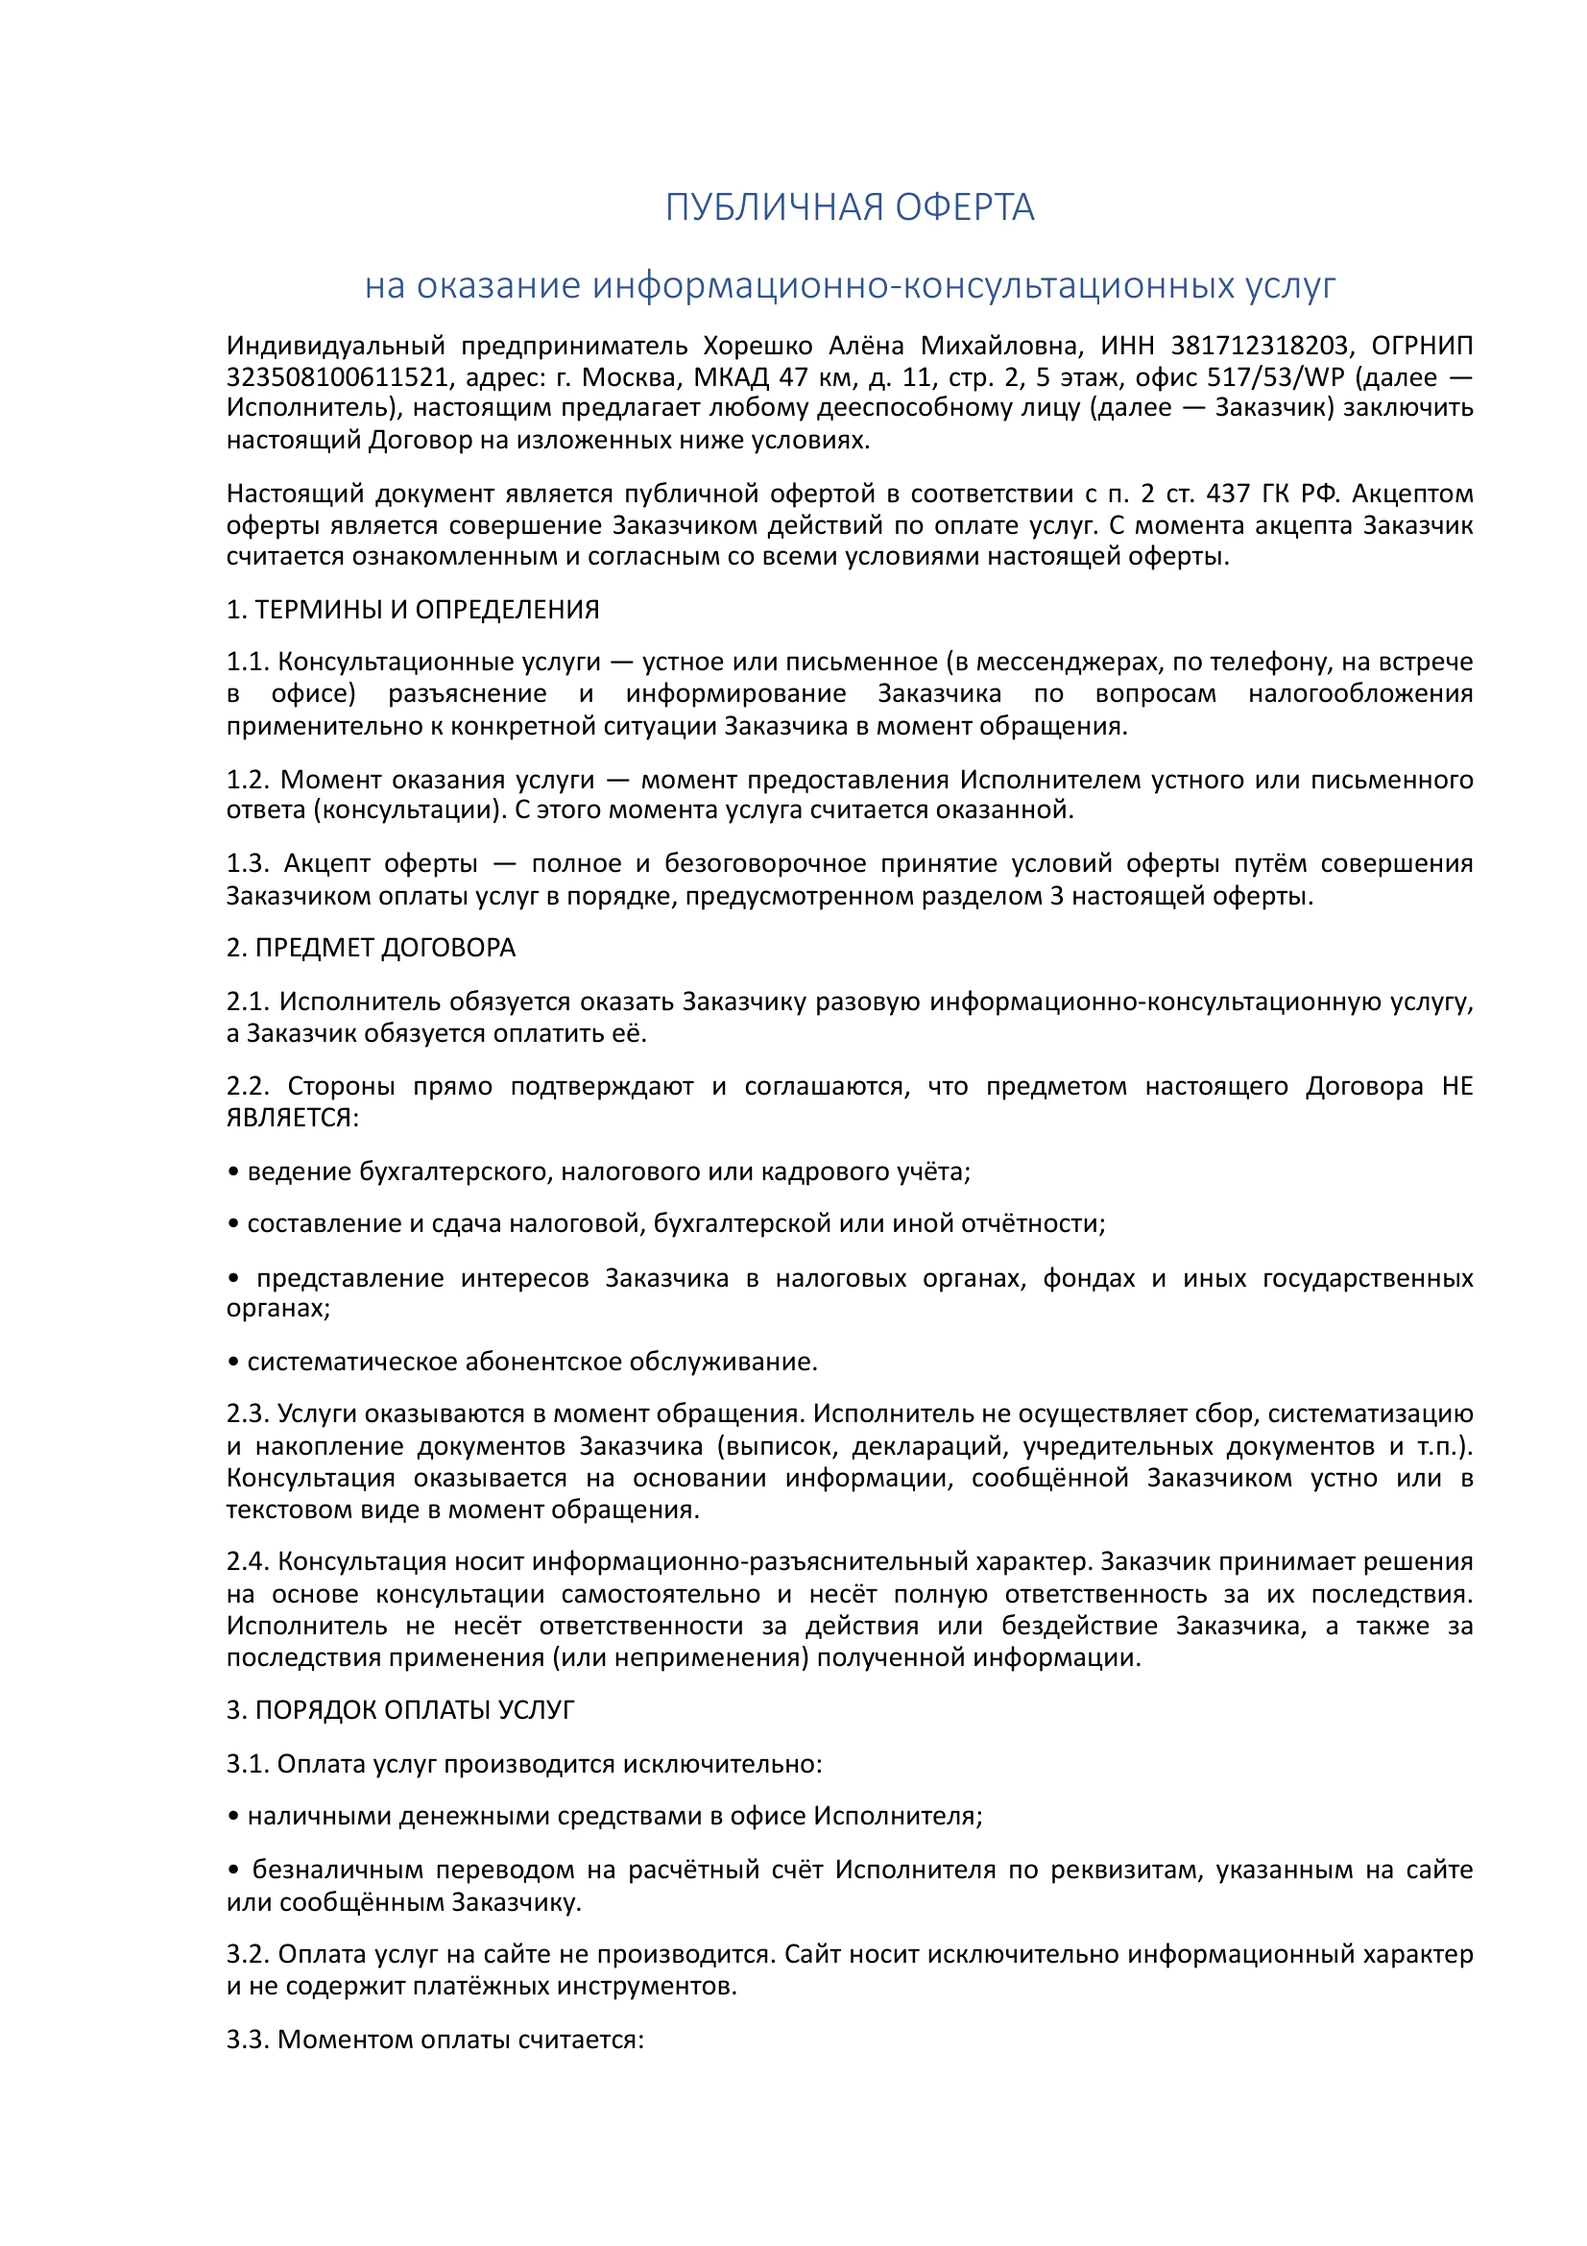
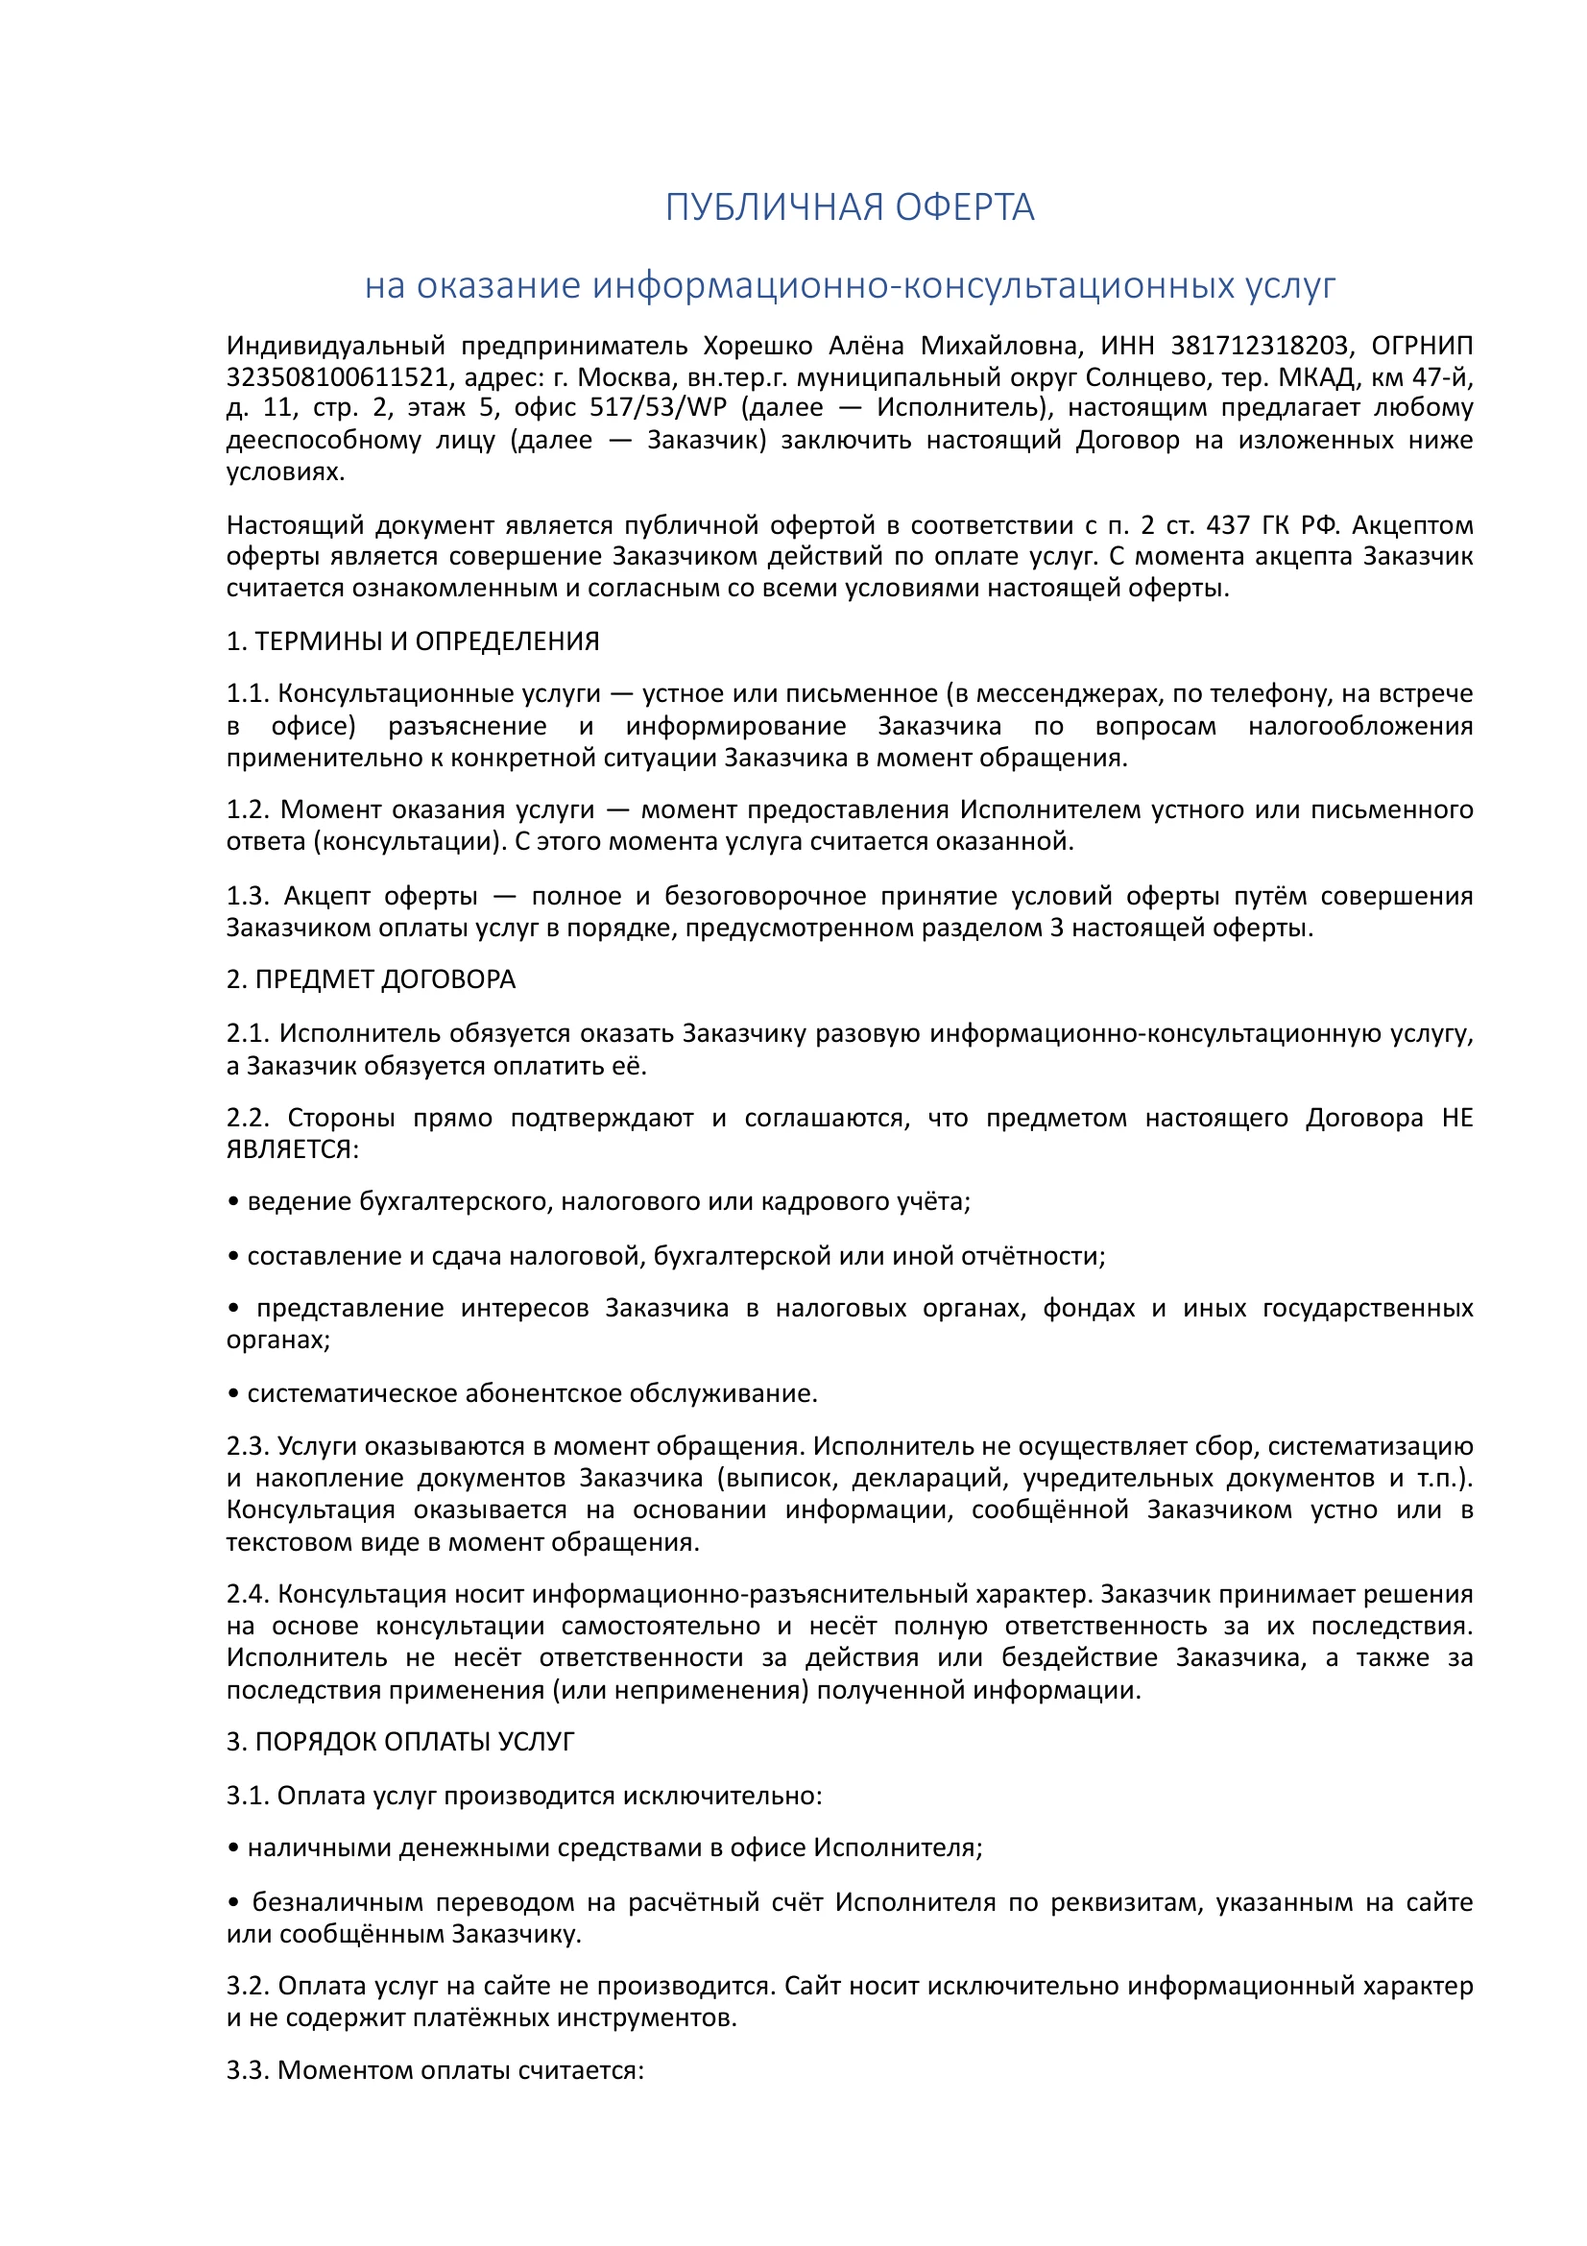
Точный адрес офиса: оферта, подвал, окно контактов

Changed region(s): [[0.1234, 0.156, 0.9256, 0.9363]]

diff --git a/oferta.html b/oferta.html
@@ -24,7 +24,7 @@
   <link rel="preconnect" href="https://fonts.googleapis.com">
   <link rel="preconnect" href="https://fonts.gstatic.com" crossorigin>
   <link rel="stylesheet" href="https://fonts.googleapis.com/css2?family=Manrope:wght@400;500;600;700&amp;family=Noto+Serif+Display:ital,wght@0,300;0,400;1,300;1,400&amp;display=swap">
-  <link rel="stylesheet" href="assets/css/style.css?v=20260929121315">
+  <link rel="stylesheet" href="assets/css/style.css?v=20260929121952">
 
 </head>
 <body class="page-service page-doc">
@@ -80,7 +80,7 @@
             <li><a href="tel:+79163069141">+7&nbsp;(916)&nbsp;306&#8209;91&#8209;41</a></li>
             <li><a href="mailto:Alena.khoreshko@yandex.ru">Alena.khoreshko@yandex.ru</a></li>
           </ul>
-          <p class="site-footer__address">119618, г.&nbsp;Москва, 47&#8209;й&nbsp;км., д.&nbsp;11 стр.&nbsp;2</p>
+          <p class="site-footer__address">119618, г.&nbsp;Москва, вн.тер.г. муниципальный округ Солнцево, тер. МКАД, км&nbsp;47&#8209;й, д.&nbsp;11, стр.&nbsp;2, этаж&nbsp;5, офис 517/53/WP</p>
         </div>
         <div class="site-footer__col">
           <p class="site-footer__label">Мессенджеры</p>
@@ -119,6 +119,7 @@
       <ul class="contact-modal__list">
         <li><span class="contact-modal__label">Телефон</span><a href="tel:+79163069141">+7&nbsp;(916)&nbsp;306&#8209;91&#8209;41</a></li>
         <li><span class="contact-modal__label">Почта</span><a href="mailto:Alena.khoreshko@yandex.ru">Alena.khoreshko@yandex.ru</a></li>
+        <li><span class="contact-modal__label">Адрес</span><span>119618, г.&nbsp;Москва, вн.тер.г. муниципальный округ Солнцево, тер. МКАД, км&nbsp;47&#8209;й, д.&nbsp;11, стр.&nbsp;2, этаж&nbsp;5, офис 517/53/WP</span></li>
       </ul>
       <!-- ЗАМЕНИТЬ: точные ссылки на Telegram и WhatsApp пришлёт заказчик -->
       <ul class="contact-modal__messengers">
@@ -128,6 +129,6 @@
     </div>
   </dialog>
 
-  <script src="assets/js/main.js?v=20260929121315" defer></script>
+  <script src="assets/js/main.js?v=20260929121952" defer></script>
 </body>
 </html>

diff --git a/arenda-kvartir.html b/arenda-kvartir.html
@@ -23,7 +23,7 @@
   <link rel="preconnect" href="https://fonts.googleapis.com">
   <link rel="preconnect" href="https://fonts.gstatic.com" crossorigin>
   <link rel="stylesheet" href="https://fonts.googleapis.com/css2?family=Manrope:wght@400;500;600;700&amp;family=Noto+Serif+Display:ital,wght@0,300;0,400;1,300;1,400&amp;display=swap">
-  <link rel="stylesheet" href="assets/css/style.css?v=20260929121315">
+  <link rel="stylesheet" href="assets/css/style.css?v=20260929121952">
 
   <script type="application/ld+json">
   {
@@ -508,7 +508,7 @@
             <li><a href="tel:+79163069141">+7&nbsp;(916)&nbsp;306&#8209;91&#8209;41</a></li>
             <li><a href="mailto:Alena.khoreshko@yandex.ru">Alena.khoreshko@yandex.ru</a></li>
           </ul>
-          <p class="site-footer__address">119618, г.&nbsp;Москва, 47&#8209;й&nbsp;км., д.&nbsp;11 стр.&nbsp;2</p>
+          <p class="site-footer__address">119618, г.&nbsp;Москва, вн.тер.г. муниципальный округ Солнцево, тер. МКАД, км&nbsp;47&#8209;й, д.&nbsp;11, стр.&nbsp;2, этаж&nbsp;5, офис 517/53/WP</p>
         </div>
         <div class="site-footer__col">
           <p class="site-footer__label">Мессенджеры</p>
@@ -547,6 +547,7 @@
       <ul class="contact-modal__list">
         <li><span class="contact-modal__label">Телефон</span><a href="tel:+79163069141">+7&nbsp;(916)&nbsp;306&#8209;91&#8209;41</a></li>
         <li><span class="contact-modal__label">Почта</span><a href="mailto:Alena.khoreshko@yandex.ru">Alena.khoreshko@yandex.ru</a></li>
+        <li><span class="contact-modal__label">Адрес</span><span>119618, г.&nbsp;Москва, вн.тер.г. муниципальный округ Солнцево, тер. МКАД, км&nbsp;47&#8209;й, д.&nbsp;11, стр.&nbsp;2, этаж&nbsp;5, офис 517/53/WP</span></li>
       </ul>
       <!-- ЗАМЕНИТЬ: точные ссылки на Telegram и WhatsApp пришлёт заказчик -->
       <ul class="contact-modal__messengers">
@@ -556,6 +557,6 @@
     </div>
   </dialog>
 
-  <script src="assets/js/main.js?v=20260929121315" defer></script>
+  <script src="assets/js/main.js?v=20260929121952" defer></script>
 </body>
 </html>

diff --git a/home-staging.html b/home-staging.html
@@ -23,7 +23,7 @@
   <link rel="preconnect" href="https://fonts.googleapis.com">
   <link rel="preconnect" href="https://fonts.gstatic.com" crossorigin>
   <link rel="stylesheet" href="https://fonts.googleapis.com/css2?family=Manrope:wght@400;500;600;700&amp;family=Noto+Serif+Display:ital,wght@0,300;0,400;1,300;1,400&amp;display=swap">
-  <link rel="stylesheet" href="assets/css/style.css?v=20260929121315">
+  <link rel="stylesheet" href="assets/css/style.css?v=20260929121952">
 
   <script type="application/ld+json">
   {
@@ -628,7 +628,7 @@
             <li><a href="tel:+79163069141">+7&nbsp;(916)&nbsp;306&#8209;91&#8209;41</a></li>
             <li><a href="mailto:Alena.khoreshko@yandex.ru">Alena.khoreshko@yandex.ru</a></li>
           </ul>
-          <p class="site-footer__address">119618, г.&nbsp;Москва, 47&#8209;й&nbsp;км., д.&nbsp;11 стр.&nbsp;2</p>
+          <p class="site-footer__address">119618, г.&nbsp;Москва, вн.тер.г. муниципальный округ Солнцево, тер. МКАД, км&nbsp;47&#8209;й, д.&nbsp;11, стр.&nbsp;2, этаж&nbsp;5, офис 517/53/WP</p>
         </div>
         <div class="site-footer__col">
           <p class="site-footer__label">Мессенджеры</p>
@@ -667,6 +667,7 @@
       <ul class="contact-modal__list">
         <li><span class="contact-modal__label">Телефон</span><a href="tel:+79163069141">+7&nbsp;(916)&nbsp;306&#8209;91&#8209;41</a></li>
         <li><span class="contact-modal__label">Почта</span><a href="mailto:Alena.khoreshko@yandex.ru">Alena.khoreshko@yandex.ru</a></li>
+        <li><span class="contact-modal__label">Адрес</span><span>119618, г.&nbsp;Москва, вн.тер.г. муниципальный округ Солнцево, тер. МКАД, км&nbsp;47&#8209;й, д.&nbsp;11, стр.&nbsp;2, этаж&nbsp;5, офис 517/53/WP</span></li>
       </ul>
       <!-- ЗАМЕНИТЬ: точные ссылки на Telegram и WhatsApp пришлёт заказчик -->
       <ul class="contact-modal__messengers">
@@ -676,6 +677,6 @@
     </div>
   </dialog>
 
-  <script src="assets/js/main.js?v=20260929121315" defer></script>
+  <script src="assets/js/main.js?v=20260929121952" defer></script>
 </body>
 </html>

diff --git a/nalogovoe-konsultirovanie.html b/nalogovoe-konsultirovanie.html
@@ -23,7 +23,7 @@
   <link rel="preconnect" href="https://fonts.googleapis.com">
   <link rel="preconnect" href="https://fonts.gstatic.com" crossorigin>
   <link rel="stylesheet" href="https://fonts.googleapis.com/css2?family=Manrope:wght@400;500;600;700&amp;family=Noto+Serif+Display:ital,wght@0,300;0,400;1,300;1,400&amp;display=swap">
-  <link rel="stylesheet" href="assets/css/style.css?v=20260929121315">
+  <link rel="stylesheet" href="assets/css/style.css?v=20260929121952">
 
   <script type="application/ld+json">
   {
@@ -649,7 +649,7 @@
             <li><a href="tel:+79163069141">+7&nbsp;(916)&nbsp;306&#8209;91&#8209;41</a></li>
             <li><a href="mailto:Alena.khoreshko@yandex.ru">Alena.khoreshko@yandex.ru</a></li>
           </ul>
-          <p class="site-footer__address">119618, г.&nbsp;Москва, 47&#8209;й&nbsp;км., д.&nbsp;11 стр.&nbsp;2</p>
+          <p class="site-footer__address">119618, г.&nbsp;Москва, вн.тер.г. муниципальный округ Солнцево, тер. МКАД, км&nbsp;47&#8209;й, д.&nbsp;11, стр.&nbsp;2, этаж&nbsp;5, офис 517/53/WP</p>
         </div>
         <div class="site-footer__col">
           <p class="site-footer__label">Мессенджеры</p>
@@ -688,6 +688,7 @@
       <ul class="contact-modal__list">
         <li><span class="contact-modal__label">Телефон</span><a href="tel:+79163069141">+7&nbsp;(916)&nbsp;306&#8209;91&#8209;41</a></li>
         <li><span class="contact-modal__label">Почта</span><a href="mailto:Alena.khoreshko@yandex.ru">Alena.khoreshko@yandex.ru</a></li>
+        <li><span class="contact-modal__label">Адрес</span><span>119618, г.&nbsp;Москва, вн.тер.г. муниципальный округ Солнцево, тер. МКАД, км&nbsp;47&#8209;й, д.&nbsp;11, стр.&nbsp;2, этаж&nbsp;5, офис 517/53/WP</span></li>
       </ul>
       <!-- ЗАМЕНИТЬ: точные ссылки на Telegram и WhatsApp пришлёт заказчик -->
       <ul class="contact-modal__messengers">
@@ -697,6 +698,6 @@
     </div>
   </dialog>
 
-  <script src="assets/js/main.js?v=20260929121315" defer></script>
+  <script src="assets/js/main.js?v=20260929121952" defer></script>
 </body>
 </html>

diff --git a/index.html b/index.html
@@ -30,7 +30,7 @@
   <link rel="stylesheet" href="https://fonts.googleapis.com/css2?family=Manrope:wght@400;500;600;700&amp;family=Noto+Serif+Display:ital,wght@0,300;0,400;1,300;1,400&amp;display=swap">
 
 
-  <link rel="stylesheet" href="assets/css/style.css?v=20260929121315">
+  <link rel="stylesheet" href="assets/css/style.css?v=20260929121952">
 
   <script type="application/ld+json">
   {
@@ -327,7 +327,7 @@
             <li><a href="tel:+79163069141">+7&nbsp;(916)&nbsp;306&#8209;91&#8209;41</a></li>
             <li><a href="mailto:Alena.khoreshko@yandex.ru">Alena.khoreshko@yandex.ru</a></li>
           </ul>
-          <p class="site-footer__address">119618, г.&nbsp;Москва, 47&#8209;й&nbsp;км., д.&nbsp;11 стр.&nbsp;2</p>
+          <p class="site-footer__address">119618, г.&nbsp;Москва, вн.тер.г. муниципальный округ Солнцево, тер. МКАД, км&nbsp;47&#8209;й, д.&nbsp;11, стр.&nbsp;2, этаж&nbsp;5, офис 517/53/WP</p>
         </div>
         <div class="site-footer__col">
           <p class="site-footer__label">Мессенджеры</p>
@@ -366,6 +366,7 @@
       <ul class="contact-modal__list">
         <li><span class="contact-modal__label">Телефон</span><a href="tel:+79163069141">+7&nbsp;(916)&nbsp;306&#8209;91&#8209;41</a></li>
         <li><span class="contact-modal__label">Почта</span><a href="mailto:Alena.khoreshko@yandex.ru">Alena.khoreshko@yandex.ru</a></li>
+        <li><span class="contact-modal__label">Адрес</span><span>119618, г.&nbsp;Москва, вн.тер.г. муниципальный округ Солнцево, тер. МКАД, км&nbsp;47&#8209;й, д.&nbsp;11, стр.&nbsp;2, этаж&nbsp;5, офис 517/53/WP</span></li>
       </ul>
       <!-- ЗАМЕНИТЬ: точные ссылки на Telegram и WhatsApp пришлёт заказчик -->
       <ul class="contact-modal__messengers">
@@ -375,6 +376,6 @@
     </div>
   </dialog>
 
-  <script src="assets/js/main.js?v=20260929121315" defer></script>
+  <script src="assets/js/main.js?v=20260929121952" defer></script>
 </body>
 </html>
